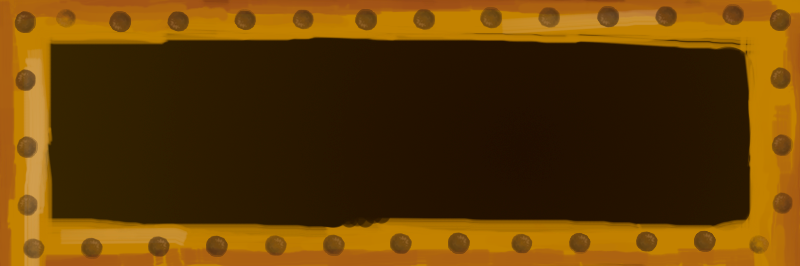
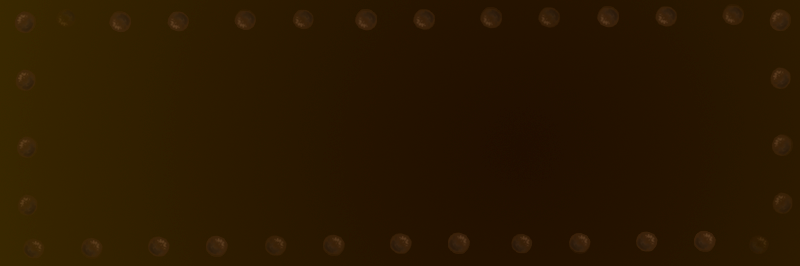
timers anims and requests

diff --git a/client/web/src/components/pages/game/controls/Timer.vue b/client/web/src/components/pages/game/controls/Timer.vue
@@ -1,24 +1,63 @@
 <template>
     <div class="timer-container">
-        <img src="http://ferrisgame.ru:8080/assets/images/timer.png" alt="Часики-то тикают" class="timer-img">
+        <div class="timer-anim-box">
+            <div class="innerCircle" :style="timercolor"/>
+            <img src="http://localhost:8080/timer.png" alt="Часики-то тикают" class="timer-img">
+            <div class="timer-text">{{total-current}} с</div>
+        </div>
     </div>
 </template>
 
 <script>
     export default {
-        name: "Timer"
+        name: "Timer",
+        props: {
+            current: Number,
+            total: Number,
+        },
+        computed: {
+            timercolor() {
+                return "background: rgb(" + 255 * (this.current / this.total) + ", "+ 255 * (1-this.current / this.total) +", 28); ";
+            }
+        }
     }
 </script>
 
 <style scoped>
-    .timer-container{
-        width: 25%;
+    .timer-container {
         display: flex;
         flex-direction: column-reverse;
     }
-    .timer-img{
+
+    .timer-img {
         width: 100%;
+        cursor: pointer;
+    }
+
+    .timer-anim-box {
+        position: relative;
+    }
+
+    .innerCircle {
+        box-sizing: border-box;
+        margin: 5% 10%;
+        position: absolute;
+        height: 80%;
+        width: 80%;
+        z-index: -200;
+        border-radius: 1222222px;
 
     }
+
+    .timer-text {
+        position: absolute;
+        top: 84%;
+        left: 3%;
+        height: 80%;
+        width: 100%;
+        font-family: Maler, serif;
+        color: white;
+    }
+
 
 </style>

diff --git a/client/web/src/components/pages/game/controls/ControlPanel.vue b/client/web/src/components/pages/game/controls/ControlPanel.vue
@@ -2,13 +2,11 @@
     <div class="control-container" :style="containerStyle">
         <div class="bottom-controls" :style="bottomStyle">
             <img src="@/assets/images/panel-background.png" alt="Фон" class="background-img"/>
-            <Timer/>
-            <div class="button-blocks">
-                <ButtonsBlock :matrix="move"/>
-                <ButtonsBlock :matrix="fire"/>
-            </div>
+            <ButtonsBlock :matrix="move"/>
+            <ButtonsBlock :matrix="fire"/>
+            <Timer current="12" total="72"/>
         </div>
-<!--        <img src="http://ferrisgame.ru:8080/assets/images/background.png" alt="Фон" class="background-img"  :style="containerStyle"/>-->
+<!--        <img src="http://localhost:8080/background.png" alt="Фон" class="background-img"  :style="containerStyle"/>-->
     </div>
 </template>
 
@@ -46,7 +44,7 @@
                 return "height:" + this.size.h + "px; width:" + this.size.w + "px;"
             },
             bottomStyle() {
-                return "height:" + this.size.w /3 + "px; width:" + this.size.w + "px; padding: " + this.size.w/15 + "px;"
+                return "height:" + this.size.w /3 + "px; width:" + this.size.w + "px; padding: " + this.size.w/30 + "px " + this.size.w/20 + "px;"
             }
         }
     }
@@ -78,7 +76,8 @@
     .bottom-controls {
         box-sizing: border-box;
         position: relative;
-        display: flex;
+        display: grid;
+        grid-template-columns: 30% 30% 25%;
         flex-direction: row-reverse;
         align-content: flex-end;
         width: 100%;

diff --git a/client/web/src/components/pages/game/radar/Radar.vue b/client/web/src/components/pages/game/radar/Radar.vue
@@ -1,6 +1,6 @@
 <template>
     <div class="radar-container" :style="compStyle">
-        <img src="http://ferrisgame.ru:8080/assets/images/radar.png" alt="Фон радара" :style="compStyle" class="radar-sprite"/>
+        <img src="http://localhost:8080/radar.png" alt="Фон радара" :style="compStyle" class="radar-sprite"/>
         <div v-for="p in map.pathPoints" :key="p.x *100000 + p.y" class="path-point"
              :style="addShiftToStyle(p, ppSize, gridSize/smallifier)"/>
         <Point v-for='p in points'
@@ -10,11 +10,11 @@
                :position="p.position"
                :size="gridSize">
         </Point>
-        <img src='http://ferrisgame.ru:8080/assets/images/player.png'
+        <img src='http://localhost:8080/player.png'
              alt="игрок"
              :style="addShiftToStyle({x:map.logic.current.x, y:map.logic.current.y},getSizeStyle(2*gridSize),2*gridSize)"
              class="player-icon"/>
-        <img src="http://ferrisgame.ru:8080/assets/images/radar-border.png" alt="Рамка радара" :style="compStyle" class="radar-sprite"/>
+        <img src="http://localhost:8080/radar-border.png" alt="Рамка радара" :style="compStyle" class="radar-sprite"/>
 
     </div>
 </template>

diff --git a/client/web/src/components/pages/game/Game.vue b/client/web/src/components/pages/game/Game.vue
@@ -8,6 +8,8 @@
 <script>
     import Radar from "@/components/pages/game/radar/Radar";
     import ControlPanel from "@/components/pages/game/controls/ControlPanel";
+    import api from "@/axios/api";
+    import $axios from "@/axios/instance";
 
     export default {
         name: 'Game',
@@ -298,11 +300,20 @@
         },
         created() {
             window.addEventListener("resize", this.myEventHandler);
+            // setInterval(this.getField, 1000);
         },
         destroyed() {
             window.removeEventListener("resize", this.myEventHandler);
         },
         methods: {
+            getField() {
+                api($axios).getField().then(r => {
+                    console.log(r.data);
+                    return r.data;
+                }).catch(e => {
+                    console.log(e)
+                })
+            },
             myEventHandler(e) {
                 console.log(e);
                 this.radarSize = this.getRadarSize();

diff --git a/client/web/src/components/pages/game/controls/SpritedButton.vue b/client/web/src/components/pages/game/controls/SpritedButton.vue
@@ -13,7 +13,7 @@
         },
         computed: {
             fullPath() {
-                return "http://ferrisgame.ru:8080/assets/images/" + this.btnName + ".png";
+                return "http://localhost:8080/" + this.btnName + ".png";
             }
         }
     }
@@ -22,6 +22,17 @@
 <style scoped>
     .button-sprite {
         width: 100%;
+        -webkit-transition: all 0.3s ease;;
+        -moz-transition: all 0.3s ease;;
+        -o-transition: all 0.3s ease;;
+        transition: all 0.3s ease;
+        cursor: pointer;
+    }
+
+    .button-sprite:hover {
+        -webkit-transform: scale(1.2);
+        -ms-transform: scale(1.2);
+        transform: scale(1.2);
     }
 
     .empty-button {

diff --git a/client/web/src/axios/api.js b/client/web/src/axios/api.js
@@ -11,13 +11,13 @@ export default function (axios) {
         },
 
         createRoom() {
-            return axios.post('/game/createRoom')
+            return axios.post('/game/create-room')
         },
         joinRoom(roomId) {
-            return axios.post('/game/joinRoom', {roomId})
+            return axios.post('/game/join-room', {roomId})
         },
         getField() {
-            return axios.get('/game/getField')
+            return axios.get('/game/get-field')
         }
     }
 }

diff --git a/client/web/src/store/modules/game.js b/client/web/src/store/modules/game.js
@@ -10,6 +10,5 @@ export const gameStore = {
 
     },
     actions: {
-
     }
 }
